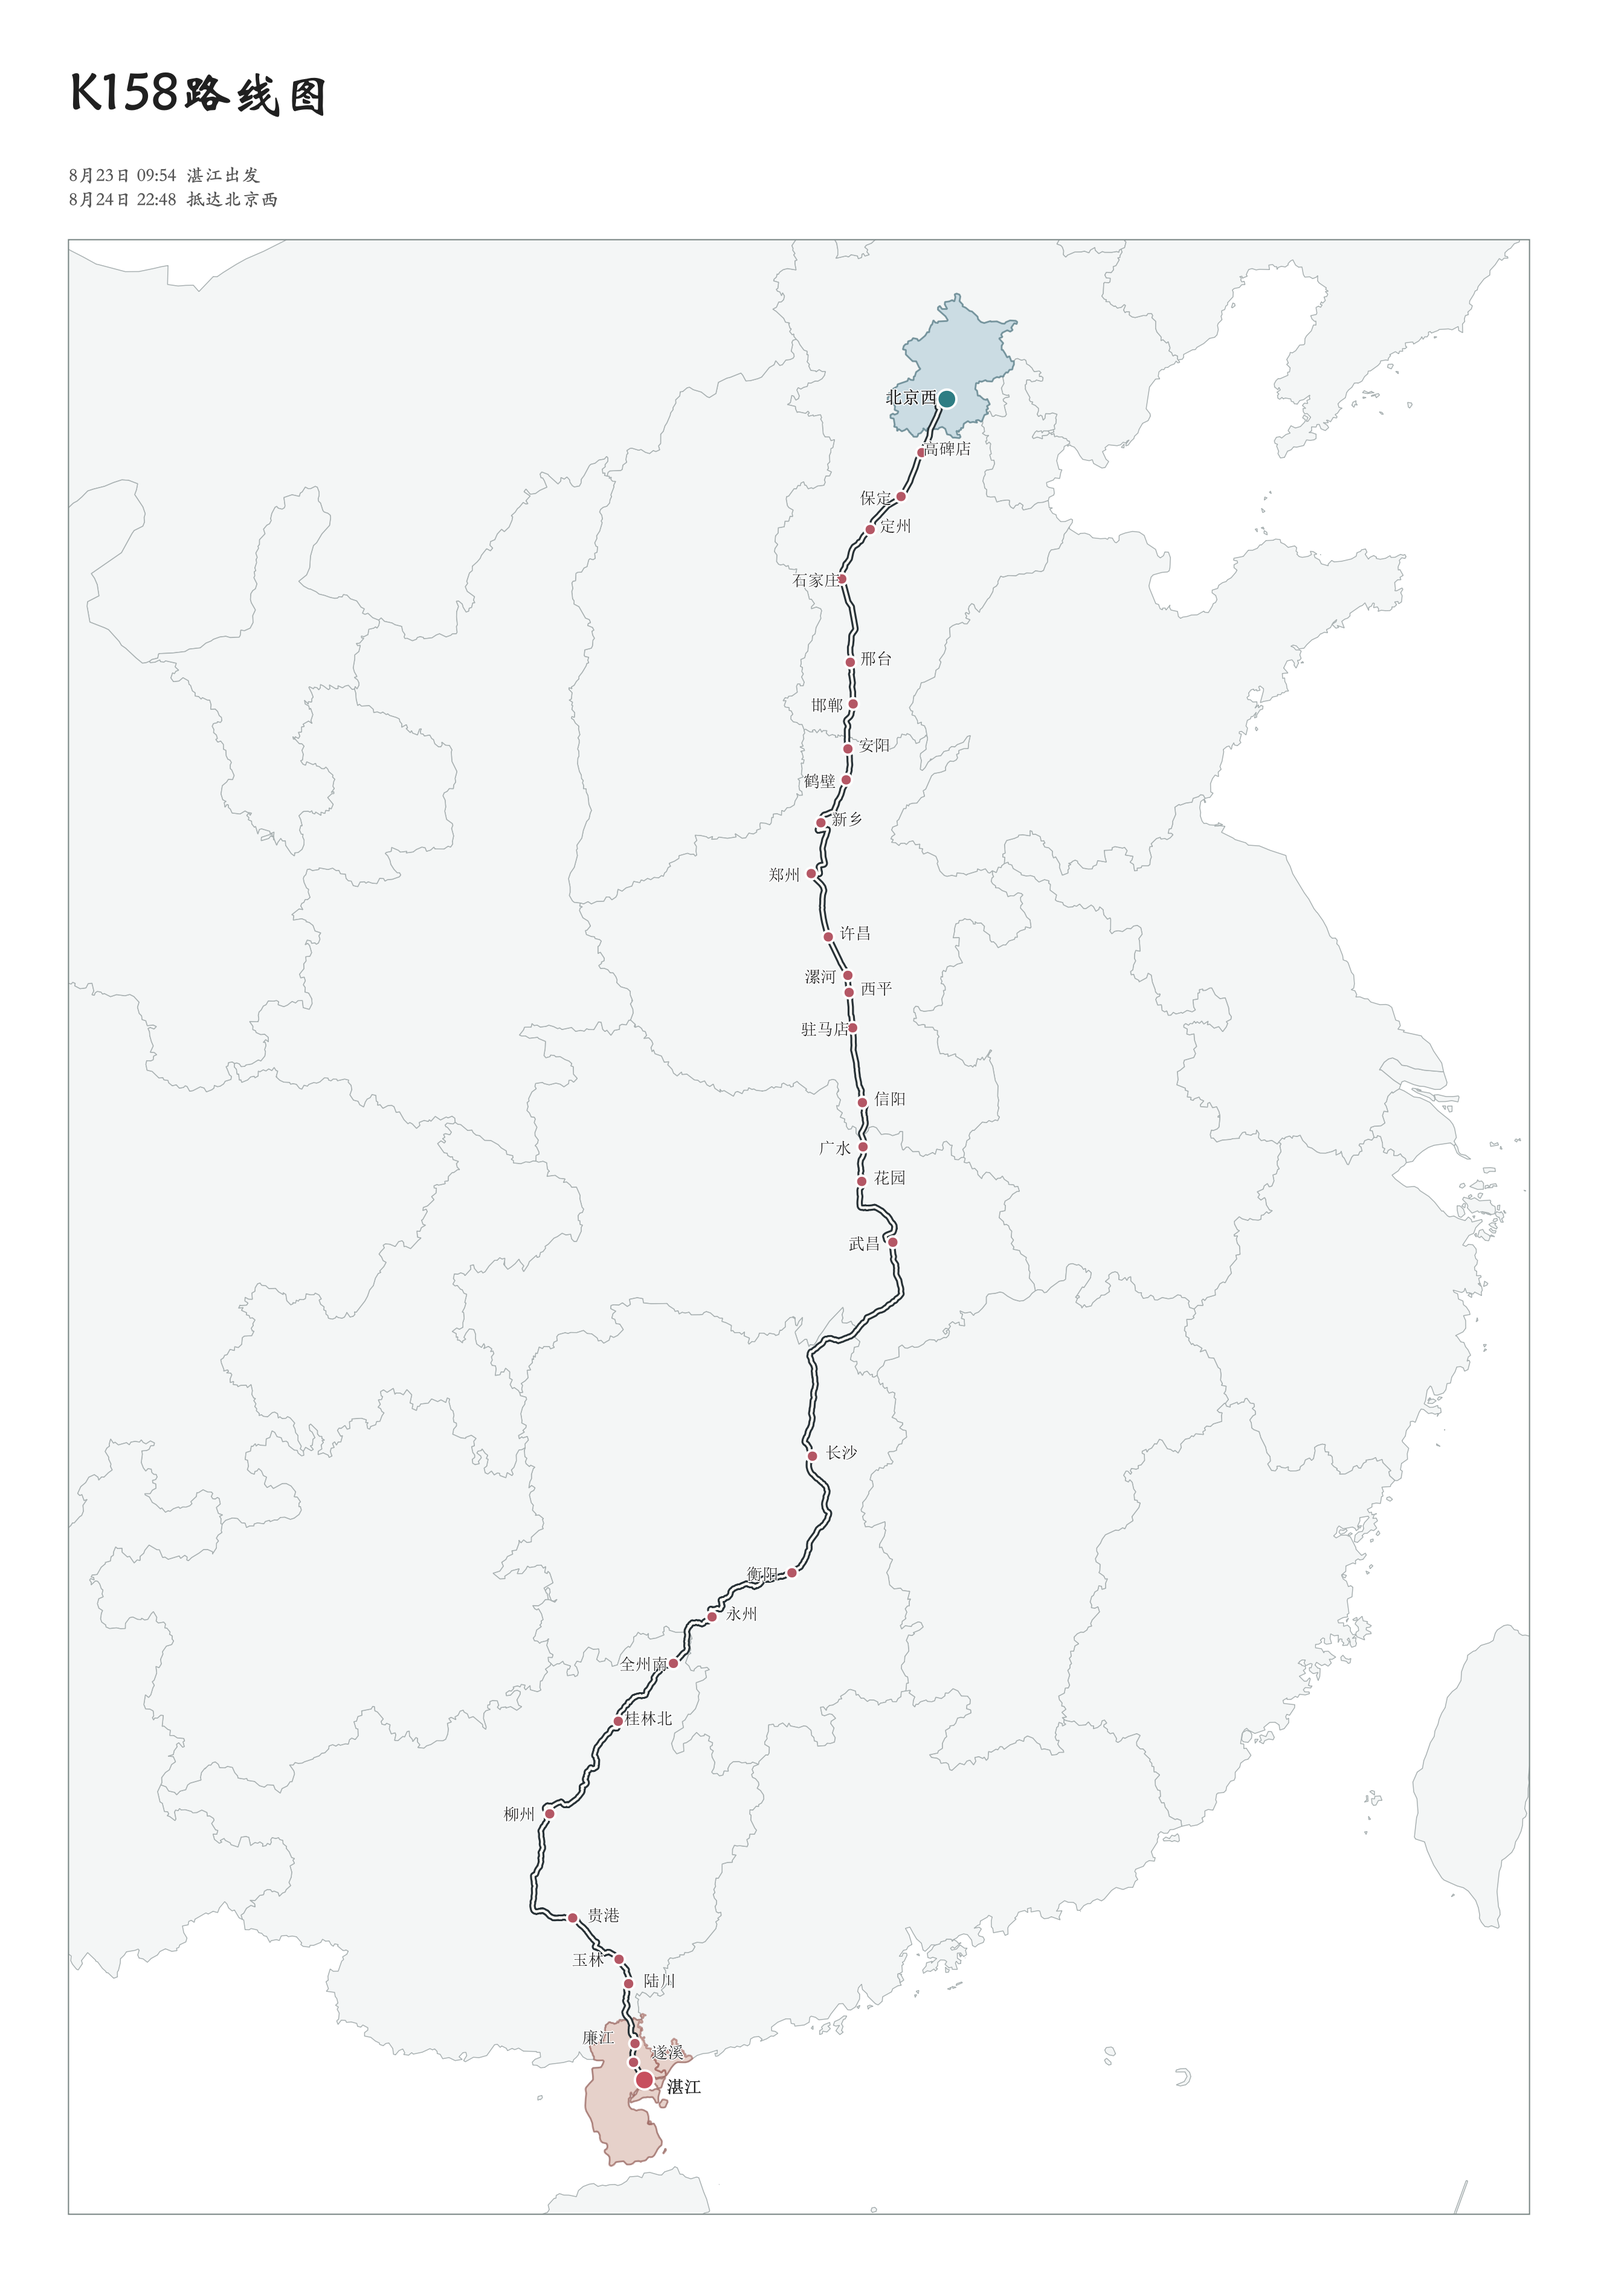
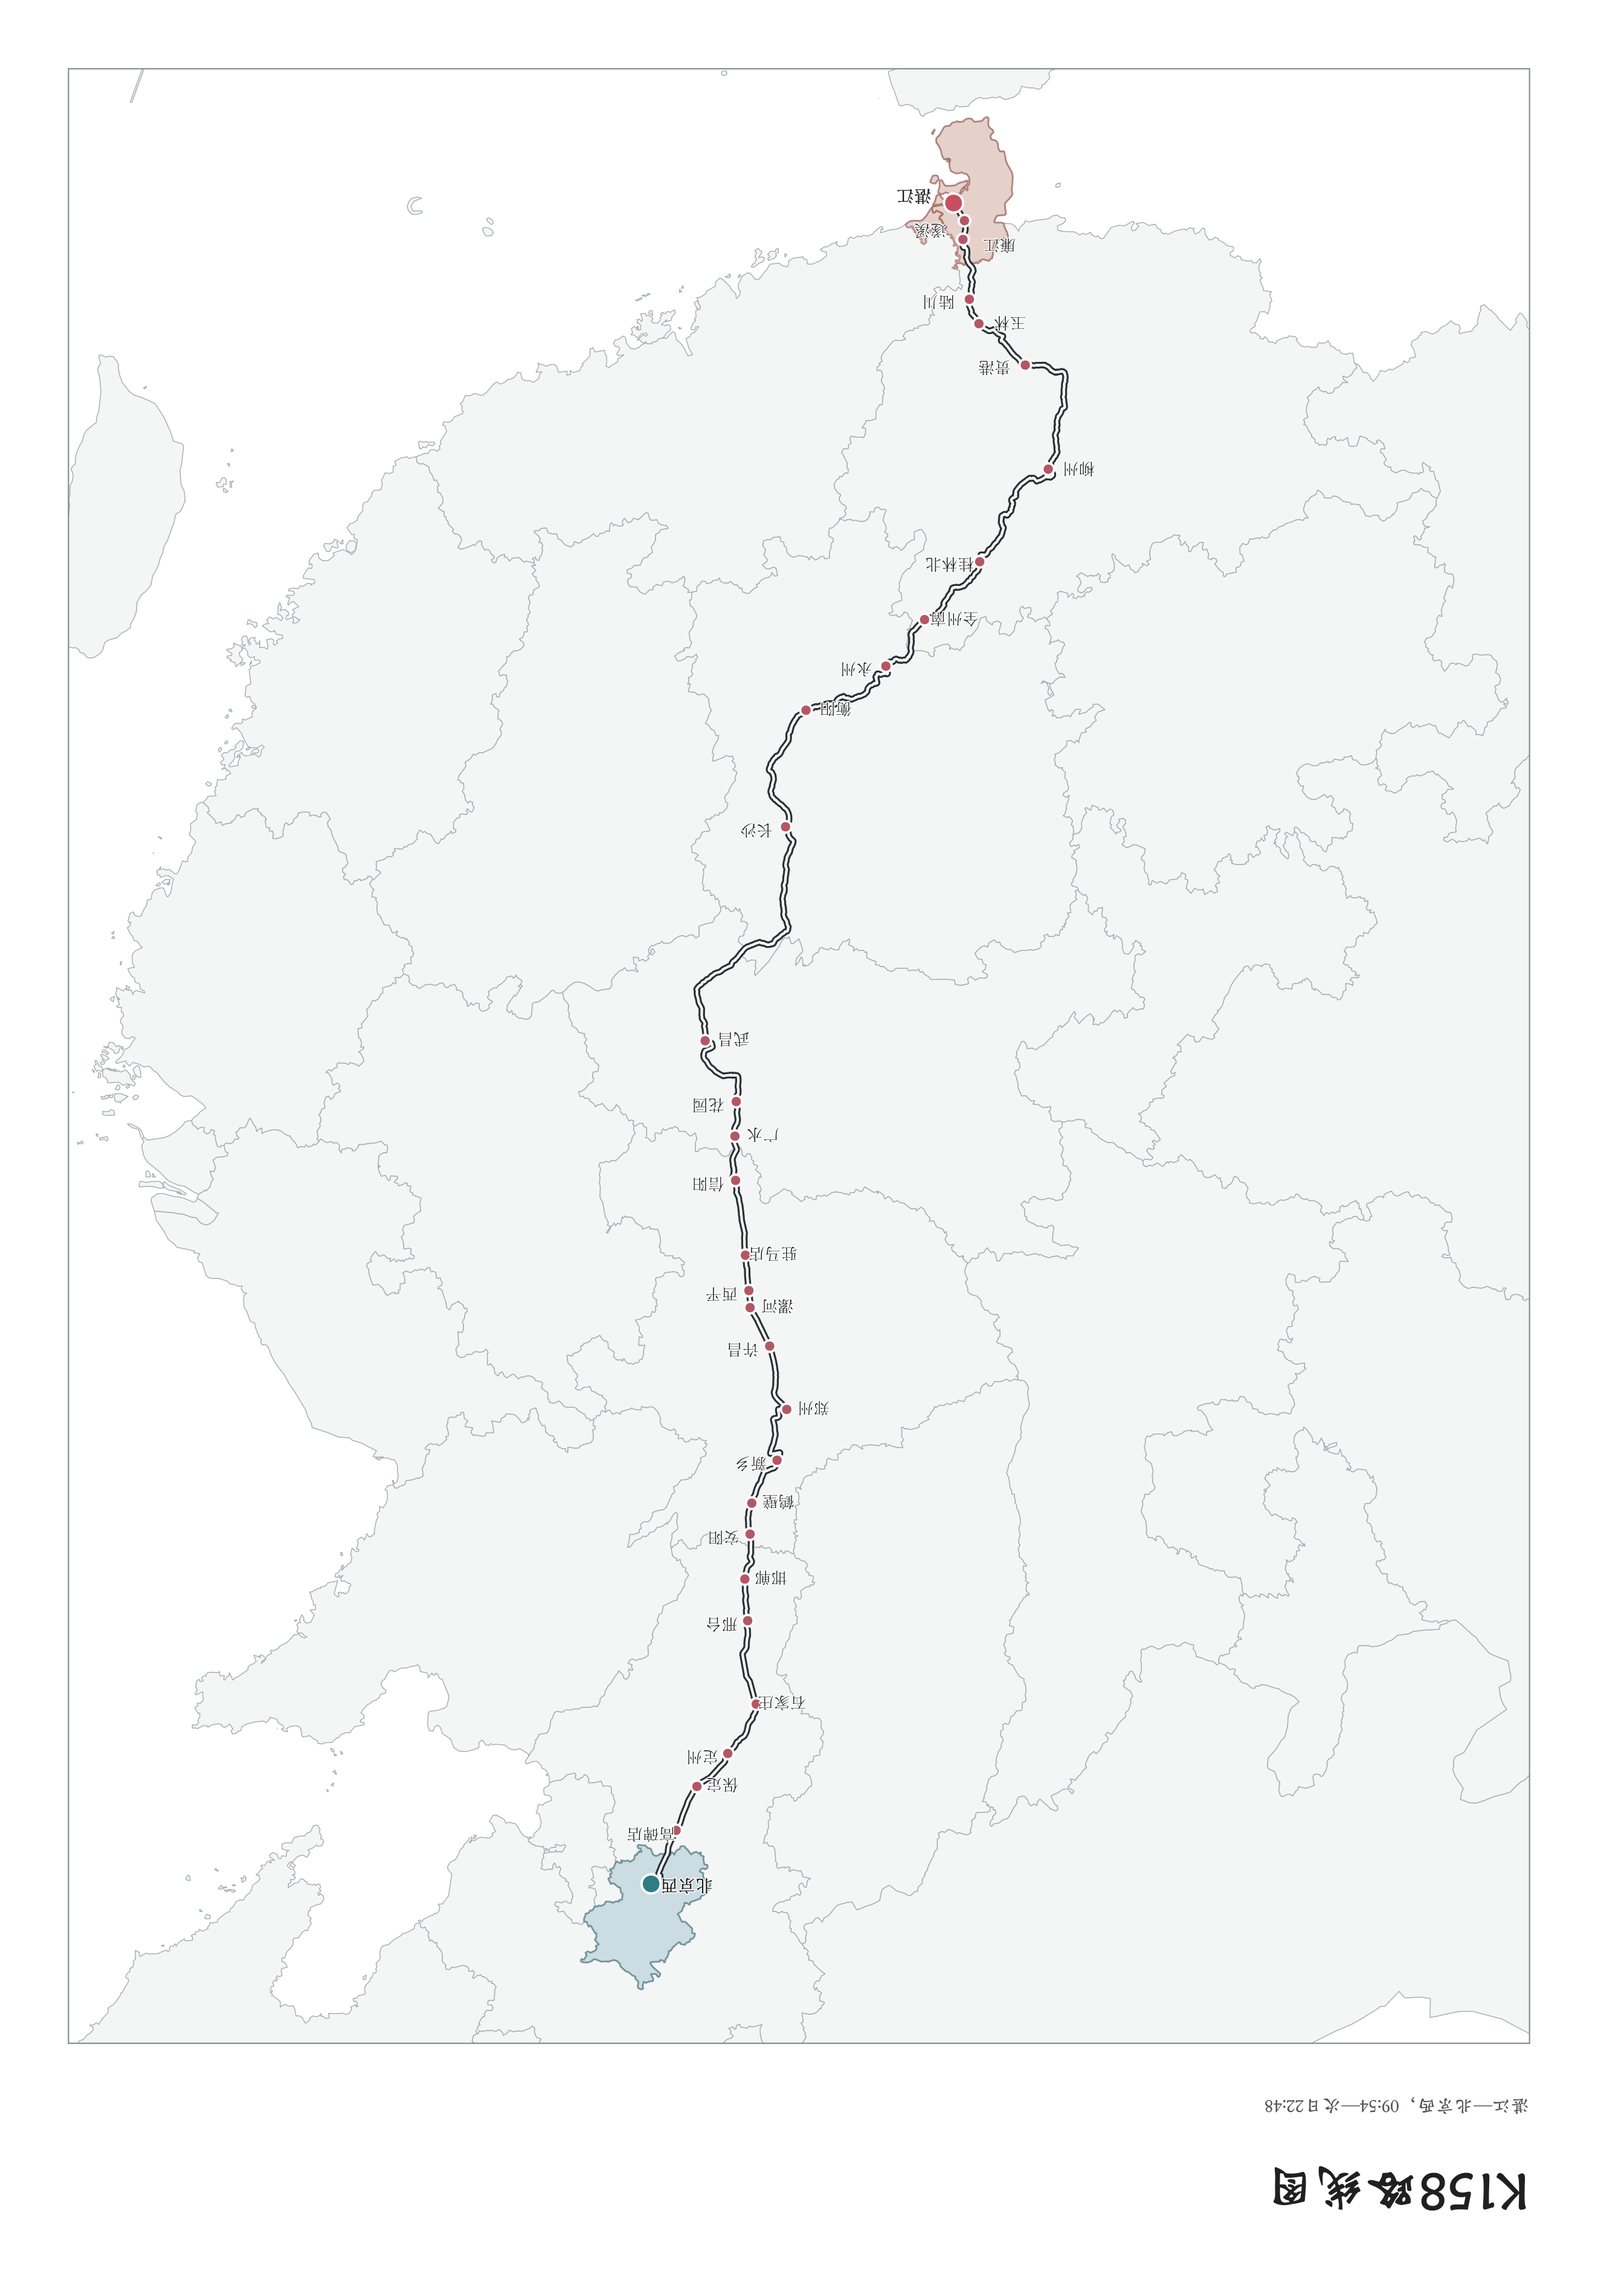
Shorten K158 map subtitle

diff --git a/制图工具/scripts/k158_planned/validate_map.py b/制图工具/scripts/k158_planned/validate_map.py
@@ -114,7 +114,7 @@ def main() -> int:
                 for item in layouts[0].items()
                 if isinstance(item, QgsLayoutItemLabel)
             )
-            for required in ("K158路线图", "09:54  湛江出发", "22:48  抵达北京西"):
+            for required in ("K158路线图", "湛江—北京西，09:54—次日22:48"):
                 if required not in text:
                     errors.append(f"布局文字缺少：{required}")
             if len(

diff --git a/制图工具/scripts/k158_planned/build_map.py b/制图工具/scripts/k158_planned/build_map.py
@@ -414,11 +414,11 @@ def build_layout(
     )
     add_label(
         layout,
-        "8月23日 09:54  湛江出发\n8月24日 22:48  抵达北京西",
+        "湛江—北京西，09:54—次日22:48",
         12,
-        25,
+        27,
         256,
-        15,
+        8,
         9.2,
         "华文楷体",
         color="#555555",
